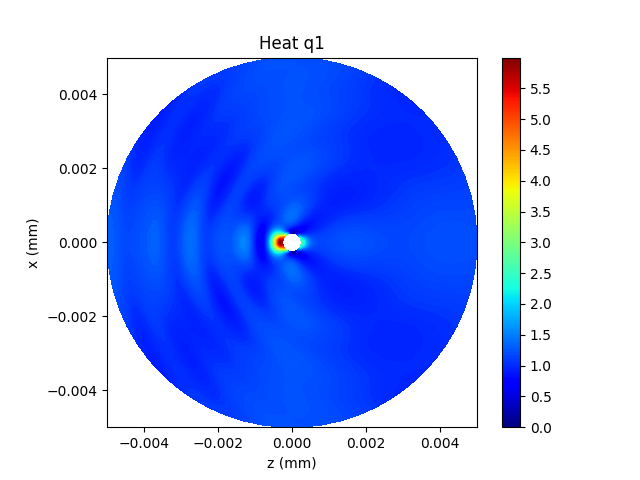
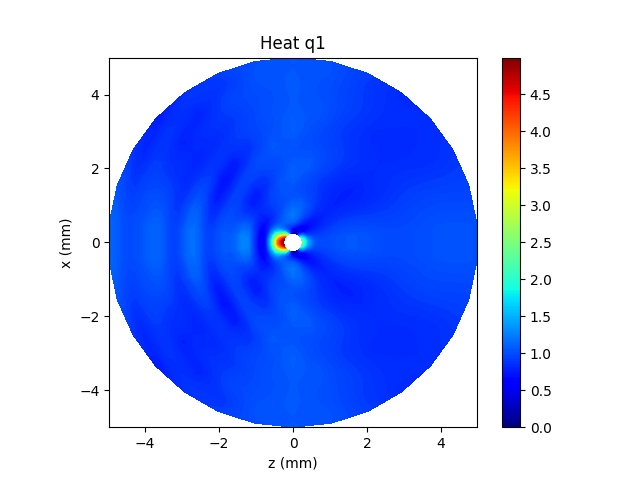
Prep for meeting tomorrow

diff --git a/equations/time_integrator.py b/equations/time_integrator.py
@@ -4,9 +4,9 @@ from equations.parameters import *
 def cot(tha):
     return 1/__np.tan(tha)
 
-def get_dTdt(r, tha, dr, dtha, a_ind, ptsInt, T):
+def get_dTdt(r, tha, dr, dtha, a_ind, ptsInt, T, q):
 
-    dTdt = __np.zeros((r.size, tha.size)) 
+    dTdt = __np.zeros((r.size, tha.size))
 
     # Roll in with the padding, truncate garbage to correct dimensions
     Ti1j = __np.roll(T, -1, axis=0)[:-1, 1:-1]
@@ -19,24 +19,24 @@ def get_dTdt(r, tha, dr, dtha, a_ind, ptsInt, T):
     Tij3 = __np.roll(T, -3, axis=1)[:-1, 1:-1]
 
     # Interior case:
-    dTdt[ptsInt] =  gamma * (1/(r**2)) * ( 
-            (((r/dr) + ((r**2)/dr**2)) * Ti1j) 
-        + ((((r**2)/dr**2) - (r/dr)) * Tin1j) 
-        + (((cot(tha)/(2*dtha)) + (1/(dtha**2))) * Tij1) 
+    dTdt[ptsInt] =  gamma * (1/(r**2)) * (
+            (((r/dr) + ((r**2)/dr**2)) * Ti1j)
+        + ((((r**2)/dr**2) - (r/dr)) * Tin1j)
+        + (((cot(tha)/(2*dtha)) + (1/(dtha**2))) * Tij1)
         + (((cot(tha)/(2*dtha)) + (1/(dtha**2))) * Tijn1)
         - ((((2*(r**2))/dr**2) - (2/(dtha**2))) * T[:-1, 1:-1])) # Needs trailing const
-                            
+
     # Boundary cases:
     # tha max: Equation 6
-    dTdt[:, -1] = gamma * (1/(r**2)) * ( 
+    dTdt[:, -1] = gamma * (1/(r**2)) * (
             ((((-2*(r**2))/(dr**2)) + (cot(tha)/(2*dtha)) - (1/(dtha**2))) * T[:-1, 1:-1]) 
-        + (((r/dr) + (r**2/(dr**2))) * Ti1j) 
-        + (((r**2/(dr**2)) - (r/dr)) * Tin1j) 
+        + (((r/dr) + (r**2/(dr**2))) * Ti1j)
+        + (((r**2/(dr**2)) - (r/dr)) * Tin1j)
         + (((1/(dtha**2)) - (cot(tha)/(2*dtha))) * Tijn1)) # Needs trailing const
 
     # tha min: Equation 5
     dTdt[:, 0] = gamma * (1/(r**2)) * (
-        - ((((2*r**2)/(dr**2)) + (cot(tha)/(2*dtha)) + (1/(dtha**2))) * T[:-1, 1:-1]) 
+        - ((((2*r**2)/(dr**2)) + (cot(tha)/(2*dtha)) + (1/(dtha**2))) * T[:-1, 1:-1])
         + (((r/dr) + (r**2/(dr**2))) * Ti1j)
         + (((r**2/(dr**2)) - (r/dr)) * Tin1j)
         + (((cot(tha)/(2*dtha)) + (1/(dtha**2))) * Tij1)) # Needs trailing const
@@ -59,15 +59,15 @@ def get_dTdt(r, tha, dr, dtha, a_ind, ptsInt, T):
 def get_T(r, tha, time, gamma, dt, dr, dtha): # NEEDS "a" , "T0"
 
     # Append points to r
-    # Need to be careful with input sanitization to discretize so we get exactly 0 and exactly a in the linspace
+    # Need to be careful with input sanitization to get exactly 0 and exactly a in the linspace
     step_size = r[1] - r[0]
     num_additional_points = int(a/step_size)
     extra_points = __np.linspace(0, a-step_size, num_additional_points)
     r = __np.concatenate((extra_points, r))
-    
+
     # Declare necessary arrays for Ralston's Method
     T = __np.full(shape=(r.size+1, tha.size+2, time.size), fill_value=T0 )
-    dTdt = __np.zeros((r.size, tha.size, time.size)) 
+    dTdt = __np.zeros((r.size, tha.size, time.size))
     T34 = __np.zeros((r.size+1, tha.size+2, time.size))
     dTdt34 = __np.zeros((r.size, tha.size, time.size))
 
@@ -77,7 +77,7 @@ def get_T(r, tha, time, gamma, dt, dr, dtha): # NEEDS "a" , "T0"
 
     # Mask the internal points
     ptsInt = __np.full(shape=(r.size, tha.size), fill_value=True)
-    ptsInt[:, -1] = False  # tha max
+    ptsInt[:, -1] = False  # tha max: might just be treated as internal
     ptsInt[:, 0] = False  # tha min
     ptsInt[-1, :] = False  # r max
     ptsInt[0, :] = False  # r min
@@ -89,14 +89,14 @@ def get_T(r, tha, time, gamma, dt, dr, dtha): # NEEDS "a" , "T0"
         # Pad with reflection of itself at tha = pi,0 boundaries
         T[:,0,t] = T[:,1,t]
         T[:,-1,t] = T[:,-2,t]
-        
+
         # Pad with Tinf at medium-air boundary (r max padding)
         T[-1,:,t] = 21
 
         # r min padding? Derivative estimate? Emailed Dr.Baker. May go in get_dTdt
 
         # Calculate dTdt
-        dTdt[:,:,t] = get_dTdt(r_exp, tha_exp, dr, dtha, a_ind, ptsInt, T[:,:,t])
+        dTdt[:,:,t] = get_dTdt(r_exp, tha_exp, dr, dtha, a_ind, ptsInt, T[:,:,t], q)
 
         # Estimate T34, include padding
         T34[:-1, 1:-1,t] = T[:-1, 1:-1,t] + dTdt * dt * (3/4)
@@ -104,10 +104,15 @@ def get_T(r, tha, time, gamma, dt, dr, dtha): # NEEDS "a" , "T0"
         T34[:,-1,t] = T34[:,-2,t]
 
         # Calculate dTdt34
-        dTdt34[:,:,t] = get_dTdt(r_exp, tha_exp, dr, dtha, a_ind, ptsInt, T34[:,:,t])
+        dTdt34[:,:,t] = get_dTdt(r_exp, tha_exp, dr, dtha, a_ind, ptsInt, T34[:,:,t], q)
 
         # Ralston's method to estimate T at next timestep
-        T[:-1, 1:-1,t+1] = T[:-1, 1:-1,t] + (dt/3) * (dTdt + (2*dTdt34)) 
+        T[:-1, 1:-1,t+1] = T[:-1, 1:-1,t] + (dt/3) * (dTdt + (2*dTdt34))
 
-    # Strip the padding and return T
-    return T[:-1, 1:-1,:]
+    # Strip the padding
+    T = T[:-1, 1:-1,:]
+
+    # Mirror the values over tha = 0
+    T = __np.concatenate((__np.flip(T[1:, :], axis=0), T), axis=0)
+
+    return T

diff --git a/main.py b/main.py
@@ -5,14 +5,14 @@
 # a = get_io("SysConfig", "CrystalRadius")
 # f = get_io("SysConfig", "Omega")
 # N = get_io("SysConfig", "VariableN")
-# 
+#
 # # MechProp
 # v1 = get_io("MechProp", "LongWaveSpeed")
 # X1 = get_io("MechProp", "LongWaveAttenuation")
 # v2 = get_io("MechProp", "ShearWaveSpeed")
 # p = get_io("MechProp", "Density1")
 # p2 = get_io("MechProp", "Density2")
-# 
+#
 # # ThermalProp
 # k1 = get_io("HeatProperties", "ThermalConductivity")
 # gamma = get_io("HeatProperties", "ThermalDiffusivity")
@@ -85,13 +85,17 @@ if __name__ == "__main__":
     sigrtha = sigmas["get_sigrtha"]
 
     # Stress Graphs
-    graph_eq(sigrr, name = "rR"); print("sigrr graph done...")
+    graph_eq(sigrr, name = "rR")
+    print("sigrr graph done...")
 
-    graph_eq(sigphiphi, name = "phiPhi"); print("sigpp graph done...")
+    graph_eq(sigphiphi, name = "phiPhi")
+    print("sigpp graph done...")
 
-    graph_eq(sigthatha, name = "thetaTheta"); print("sigtt graph done...")
+    graph_eq(sigthatha, name = "thetaTheta")
+    print("sigtt graph done...")
 
-    graph_eq(sigrtha, name = "rTheta"); print("sigrt graph done...")
+    graph_eq(sigrtha, name = "rTheta")
+    print("sigrt graph done...")
 
     # Volumetric Heat Generation Graph
     start = time.time()
@@ -99,7 +103,8 @@ if __name__ == "__main__":
     stop = time.time()
     print(f"q1 calculated in {stop - start:.2f} seconds...")
 
-    graph_eq(q1, "q1"); print("q1 graph done...")
+    graph_eq(q1, "q1")
+    print("q1 graph done...")
 
     # Input for Tempurature Gradient
 
@@ -108,7 +113,7 @@ if __name__ == "__main__":
 
     #Theta increment
     dtha = tha[1]-tha[0]
-    
+
     #r increment
     dr = a
 
@@ -133,8 +138,14 @@ if __name__ == "__main__":
     print(f"temp matrix calculated in {stop - start:.2f} seconds...")
 
     # Graph Temperature Gradient
-
-    graph_temp_gr(T[:,:,(t.size-1)], shift = 21, name = "tempGradient"); print("temp graph done...")
+    graph_temp_gr(T[:,:,(t.size-1)], shift = 21, name = "tempGradient")
+    graph_temp_gr(T[:,:,(t.size-100)], shift = 21, name = "tempGradient1")
+    graph_temp_gr(T[:,:,(t.size-150)], shift = 21, name = "tempGradient2")
+    graph_temp_gr(T[:,:,(t.size-200)], shift = 21, name = "tempGradient3")
+    graph_temp_gr(T[:,:,(t.size-250)], shift = 21, name = "tempGradient4")
+    graph_temp_gr(T[:,:,(t.size-300)], shift = 21, name = "tempGradient5")
+    graph_temp_gr(T[:,:,(t.size-350)], shift = 21, name = "tempGradient6")
+    print("temp graph done...")
 
     end = time.time()
     print(f"program completed in {end - begin:.2f} seconds!")
@@ -146,5 +157,5 @@ if __name__ == "__main__":
     # put_io("outl", "rTheta", "Radial Stress on the Theta Face Image")
     # put_io("outm", "q1", "Volumetric Heat Generation Image")
     # put_io("outn", "T", "Temperature Gradient Image")
-    # 
+    #
     # close_io()

diff --git a/equations/graph.py b/equations/graph.py
@@ -9,8 +9,8 @@ __plt.jet()
 
 R, theta = __np.meshgrid(r, tha1)
 
-X = R * __np.cos(theta)
-Y = R * __np.sin(theta)
+X = R * __np.cos(theta) * 1000
+Y = R * __np.sin(theta) * 1000
 
 cmap = __plt.get_cmap('jet')
 
@@ -36,7 +36,6 @@ def graph_eq(sig, name = str(time.time())[7:-4], factor = 10e5, dir = "./picture
     else: title = "Stress "
 
     fig.colorbar(sm, ticks=__np.arange(0,vmax,tickstep), boundaries=__np.arange(0,vmax,.001), ax=ax)
-
     __plt.gca().set_aspect("equal")
     __plt.xlabel("z (mm)")
     __plt.ylabel("x (mm)")
@@ -55,7 +54,7 @@ def graph_temp_gr(values, shift = 21, name = str(time.time())[7:-4], dir = "./pi
     sm = cm.ScalarMappable(cmap=cmap, norm=norm)
     sm.set_array([])
     
-    tickstep = .2 # From last year
+    tickstep = 10 # From last year
 
     fig.colorbar(sm, ticks=__np.arange(0,vmax,tickstep), boundaries=__np.arange(0,vmax,.001), ax=ax)
     
